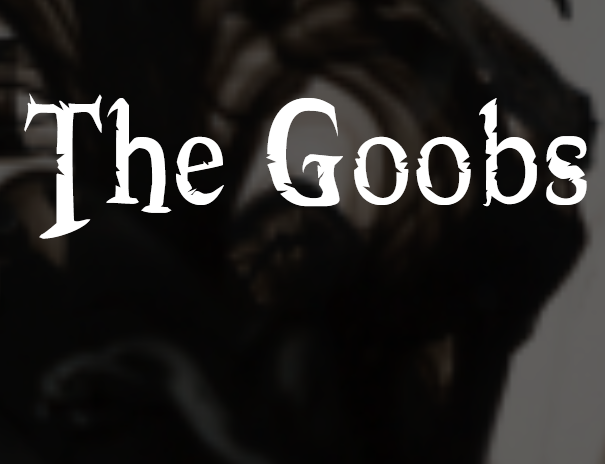
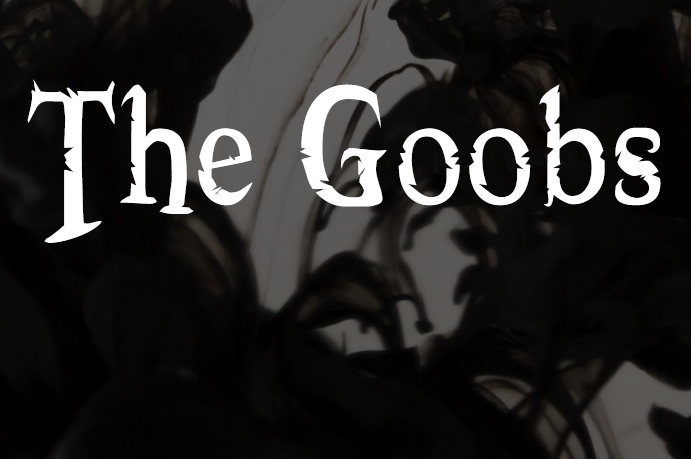
Update site images

diff --git a/site.css b/site.css
@@ -55,7 +55,7 @@ header nav {
 
 .hero {
     background-color: rgba(0, 0, 0, .6);
-    background-image: url("Images/Hero.png");
+    background-image: url("Images/Hero.jpg");
     background-blend-mode: multiply;
     background-size: cover;
     padding-bottom: 125px;
@@ -119,7 +119,7 @@ header nav {
 
 footer {
     background-color: rgba(0, 0, 0, .6);
-    background-image: url("Images/Hero.png");
+    background-image: url("Images/Hero.jpg");
     background-blend-mode: multiply;
     background-size: cover;
 }
